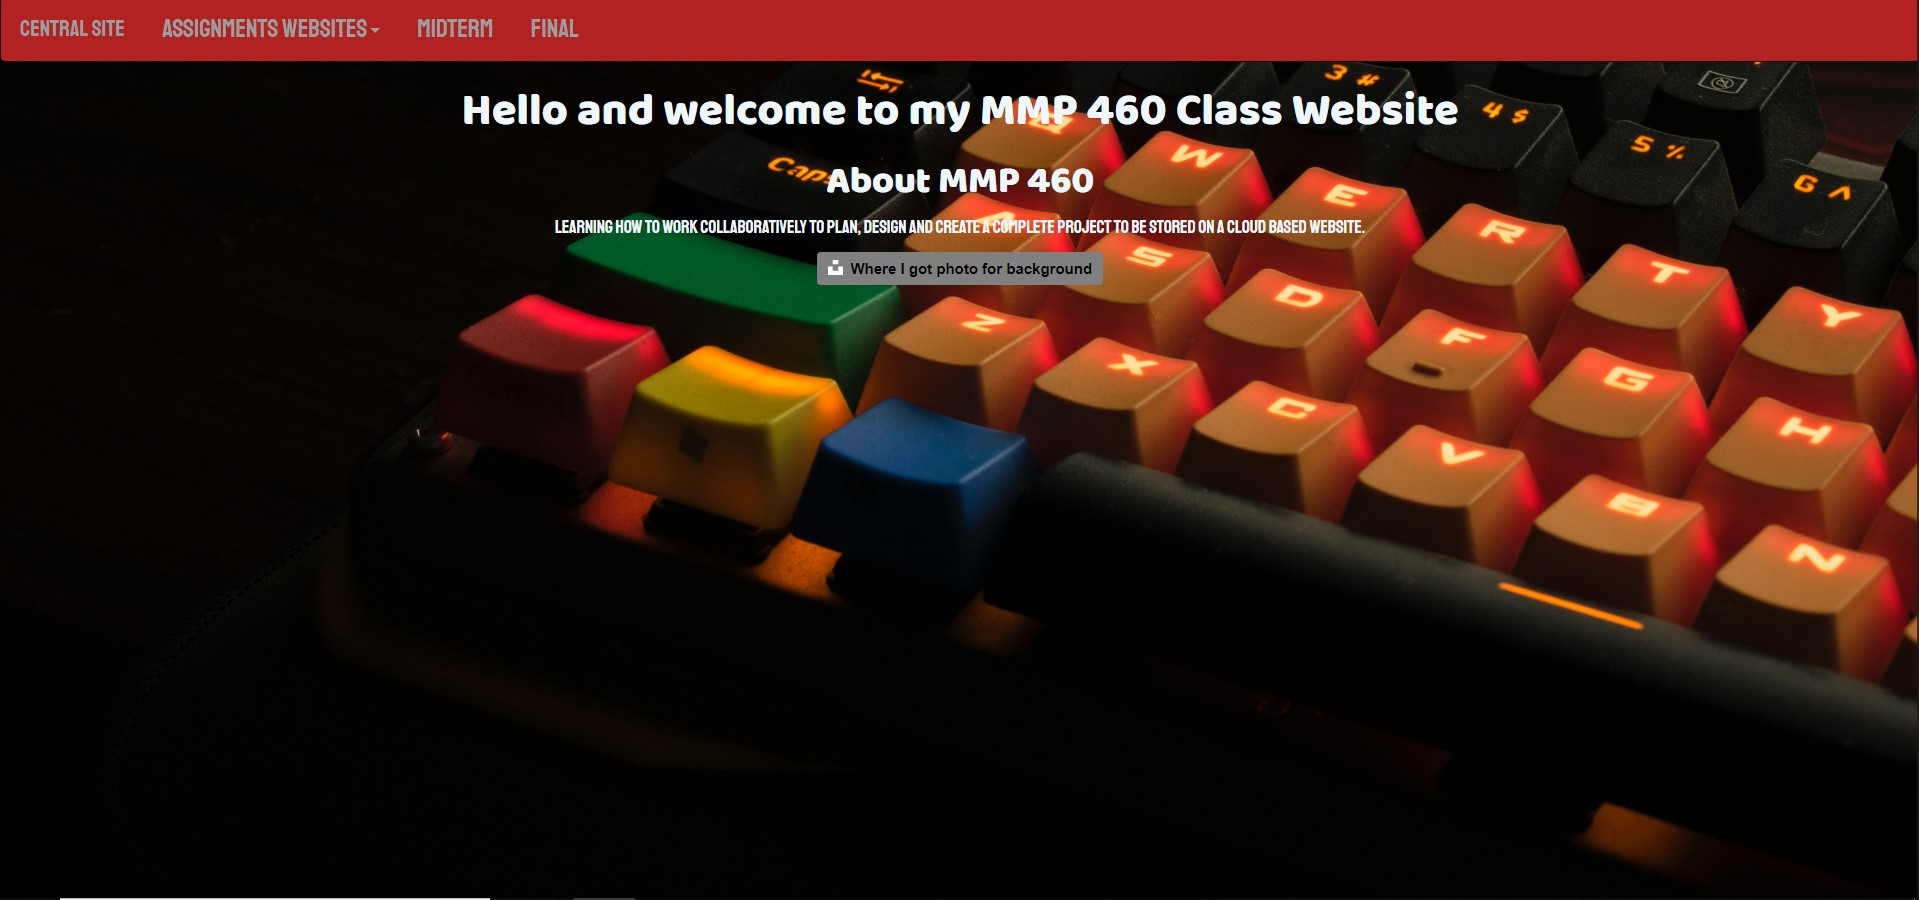
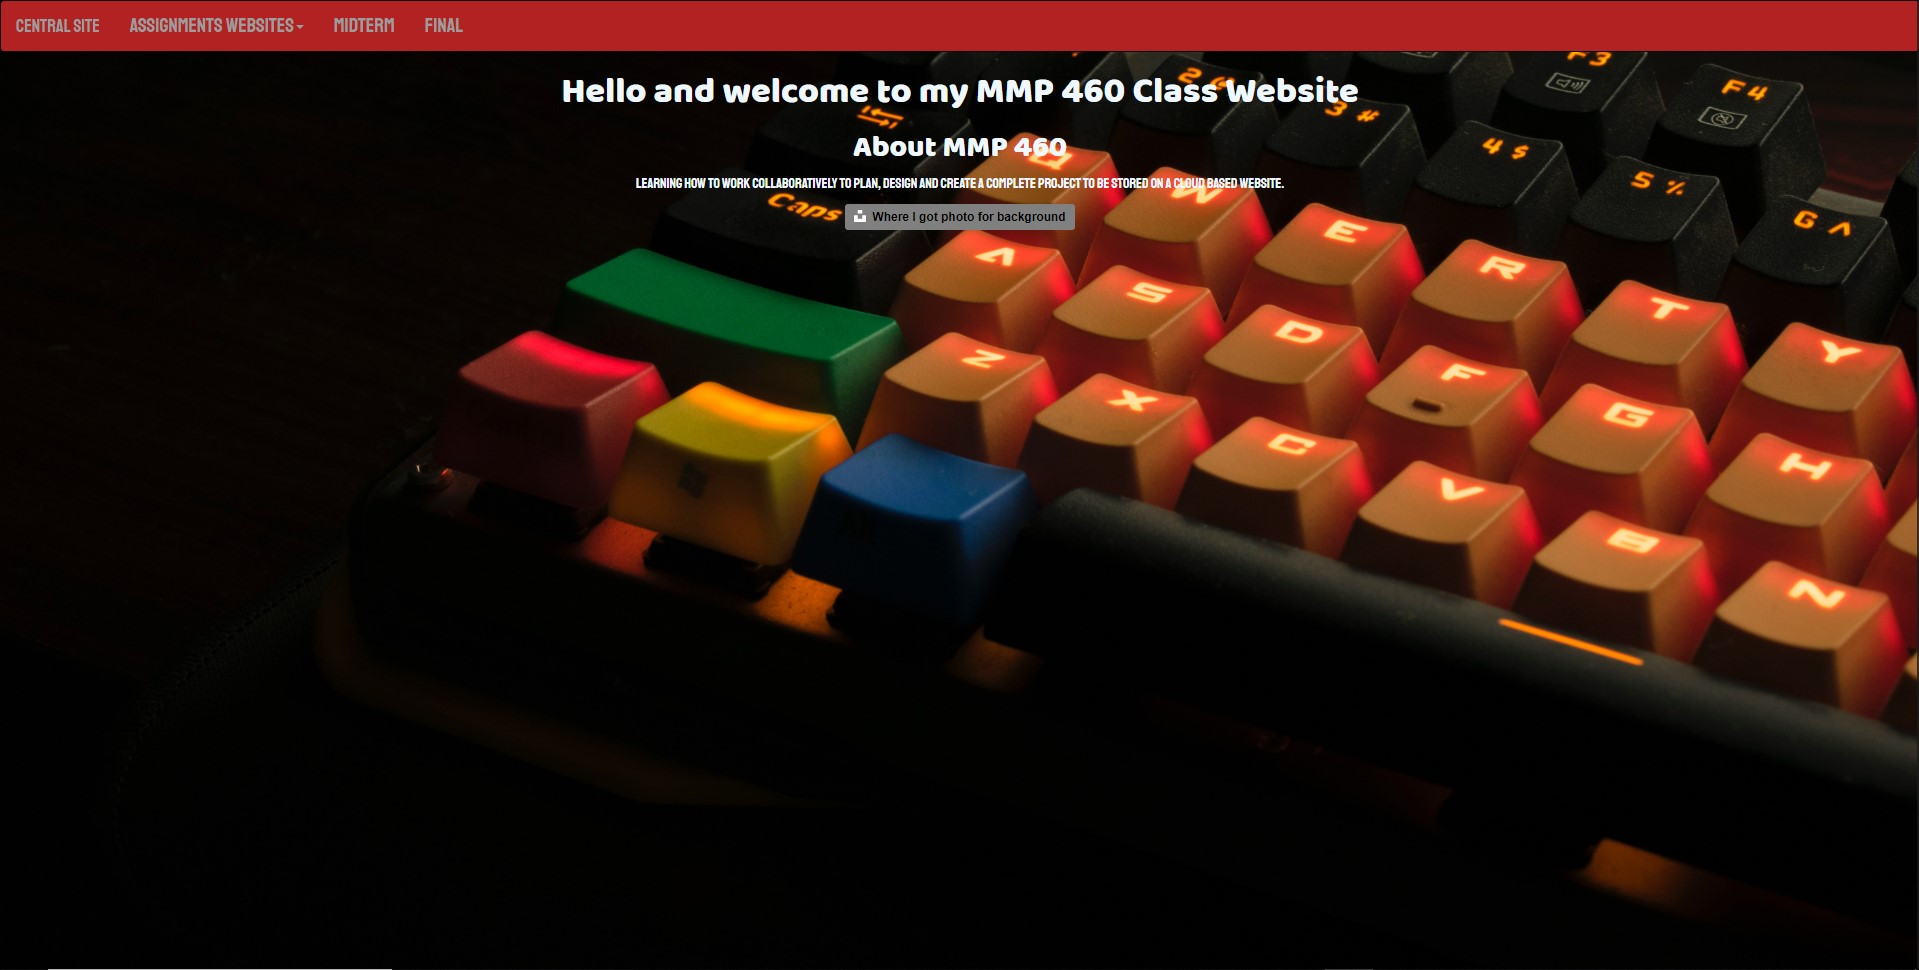
3/17/2019
chnaged photo mmp 460 and chnaged color of nav

diff --git a/index.html b/index.html
@@ -18,7 +18,7 @@
 <body class="w3-black">
 
 	<!-- Sidebar/menu -->
-	<nav class="w3-sidebar w3-blue w3-collapse w3-top w3-large w3-padding" style="z-index:3;width:300px;font-weight:bold;" id="mySidebar"><br>
+	<nav class="w3-sidebar w3-gray w3-collapse w3-top w3-large w3-padding" style="z-index:3;width:300px;font-weight:bold;" id="mySidebar"><br>
 		<a href="javascript:void(0)" onclick="w3_close()" class="w3-button w3-hide-large w3-display-topleft" style="width:100%;font-size:22px">Close Menu</a>
 		<div class="w3-container">
 			<h3 class="w3-padding-64"><b>Links<br></b></h3>
@@ -35,8 +35,8 @@
 	</nav>
 
 	<!-- Top menu on small screens -->
-	<header class="w3-container w3-top w3-hide-large w3-blue w3-xlarge w3-padding">
-		<a href="javascript:void(0)" class="w3-button w3-blue w3-margin-right" onclick="w3_open()">☰</a>
+	<header class="w3-container w3-top w3-hide-large w3-gray w3-xlarge w3-padding">
+		<a href="javascript:void(0)" class="w3-button w3-gray w3-margin-right" onclick="w3_open()">☰</a>
 		<span>Navigation</span>
 	</header>
 
